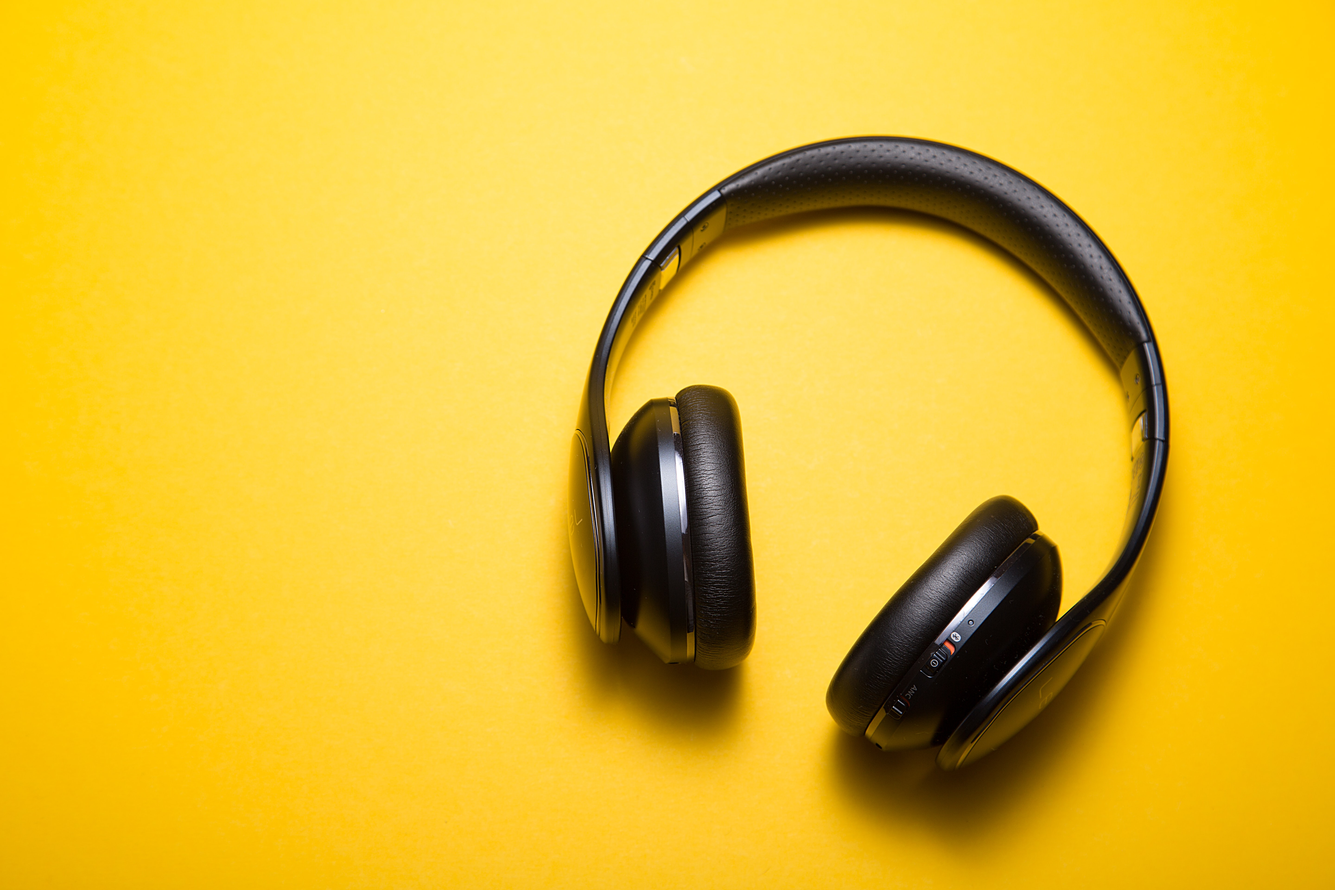
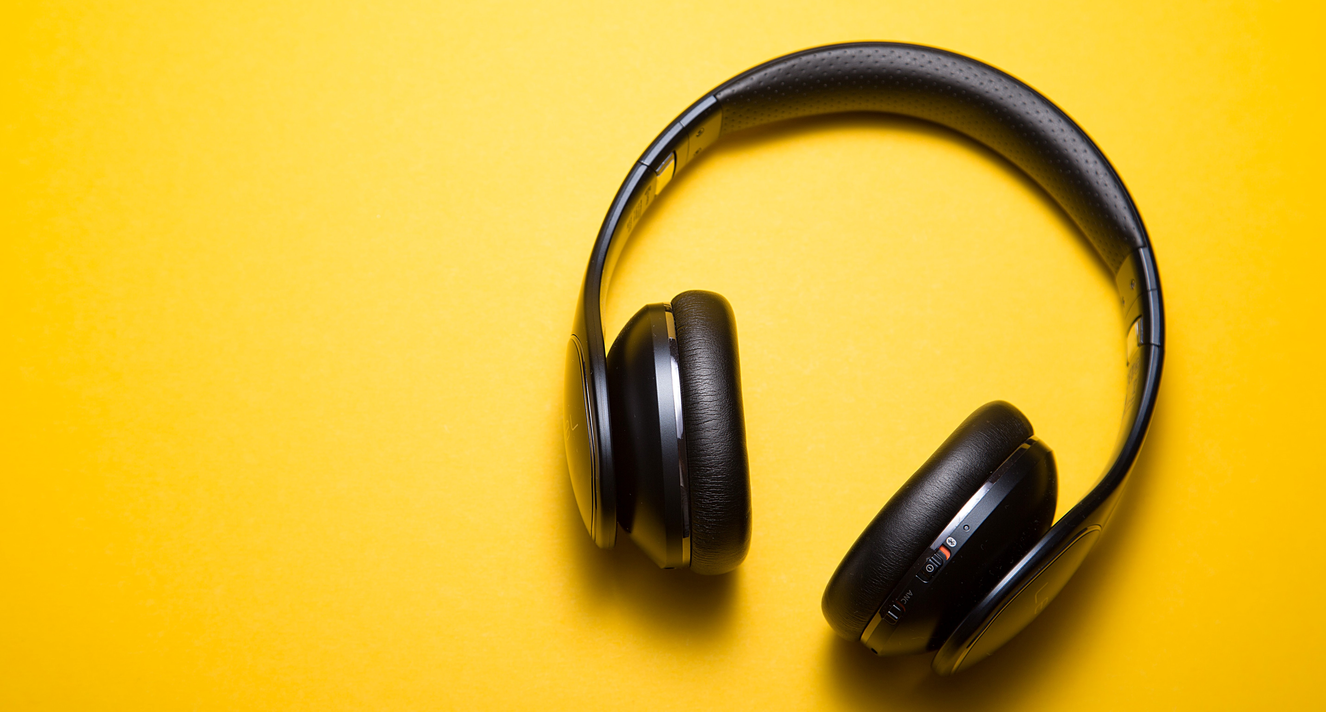
Basic Styling

diff --git a/public/styles/style.css b/public/styles/style.css
@@ -8,16 +8,62 @@ body {
 /* Scale canvas with resize attribute to full size */
 
 canvas[resize] {
+    margin: 0;
     width: 100%;
     height: 100%;
     background-color: black;
+    color: yellowgreen;
 }
 
 #main {
-    height: 125vh;
+    position: relative;
 }
 
 img {
+    height: 90vh;
     width: 100%;
-    background-size: cover;
+    filter: brightness(70%);
+    padding: 0;
+    margin: 0;
+}
+
+.heading {
+    text-align: center;
+    position: absolute;
+    font-size: 1rem;
+    top: 40%;
+    left: 10%;
+}
+
+button {
+    border: none;
+    border-radius: 2rem;
+    padding: 1rem 3rem;
+    background-color: black;
+    color: whitesmoke;
+}
+
+a {
+    text-decoration: none;
+    color: whitesmoke !important;
+}
+
+.custom {
+    border-radius: 0 !important;
+    margin: 0 !important;
+    height: 10vh;
+}
+
+.container {
+    color: whitesmoke;
+}
+
+@media only screen and (max-width: 810px) {
+    #main {
+        min-height: 90vh;
+        background-color: yellow;
+    }
+    img {
+        display: none;
+    }
 }
